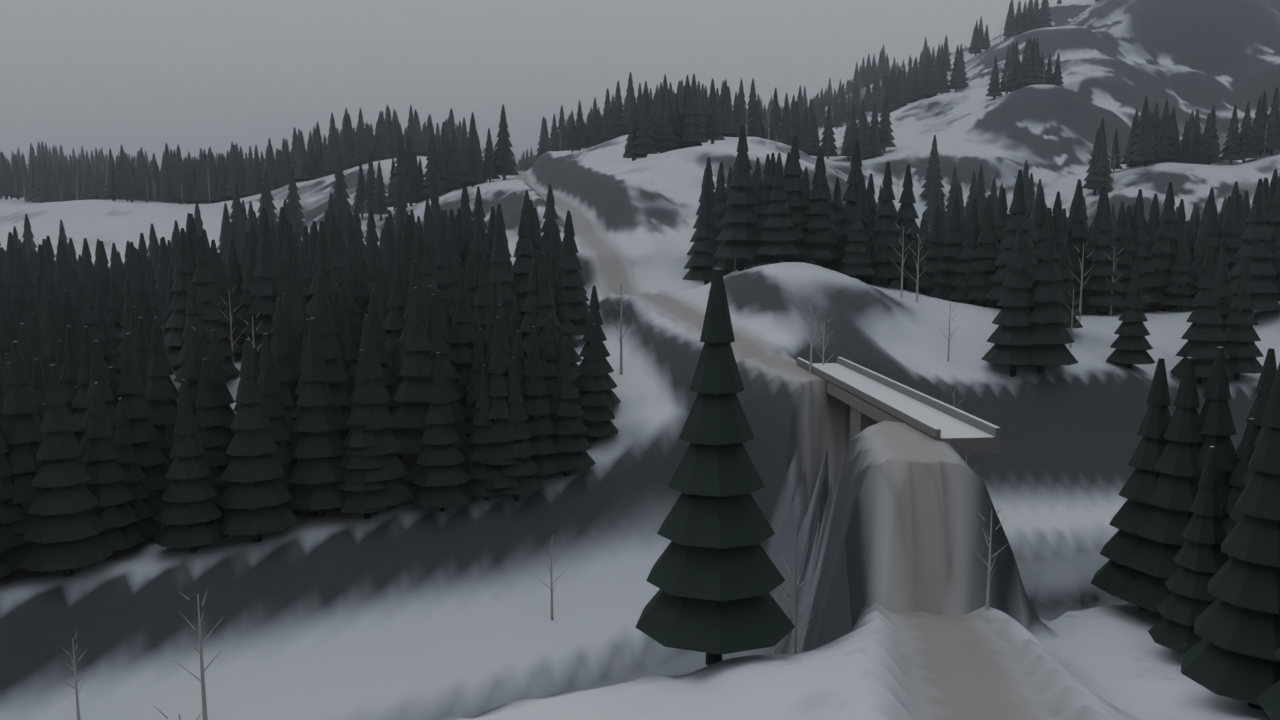
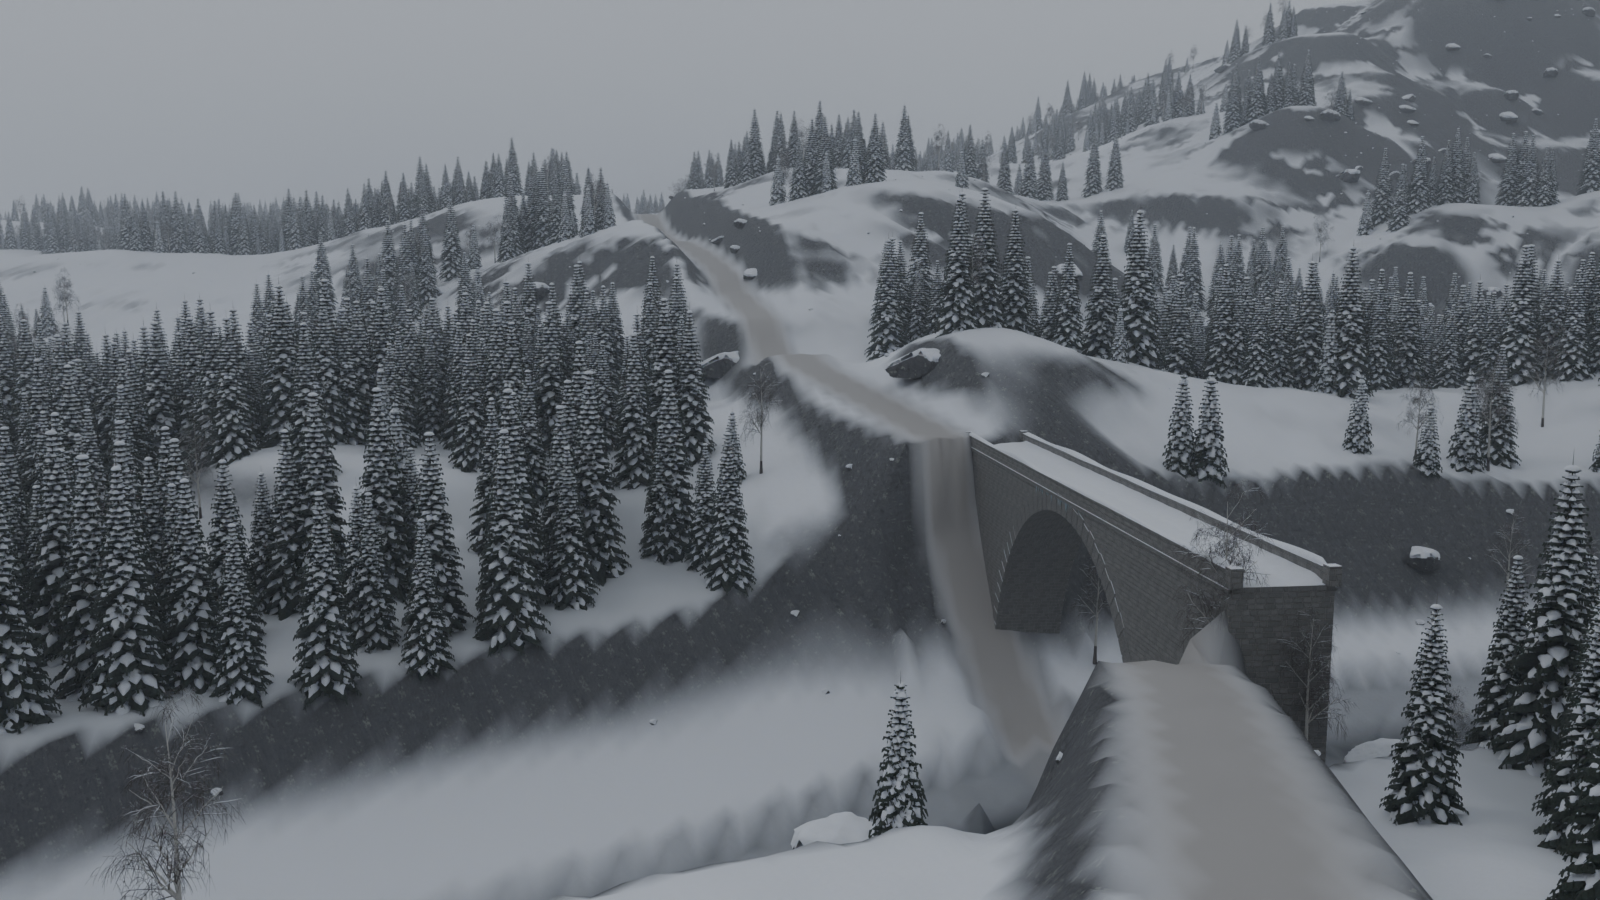
#390 TODO + first polish-v2 shots

diff --git a/handoffs/laptop-i5/TODO_adjustedfilm.md b/handoffs/laptop-i5/TODO_adjustedfilm.md
@@ -13,7 +13,7 @@ the real meshes, snow glints, rock texture, blizzard multiple scattering, 3 prop
 Next, in order: (1) fix from the Master's log `ue/wk390_log.txt` (meshes/props/dress steps are untested in UE);
 (2) BPC_SnowTrails (RT trail mask + packed layer + POM in M_WK_Landscape; RESEARCH.md section 4) - needs a T3D or a
 setup script, ask for no export (new BP); (3) snow Niagara from the #226 rain (request an export of the rain system
-first); (4) blizzard still needs a check in the new lookdev; (5) spruce snow cushions are a bit round, falls texture streaky.
+first); (4) blizzard still needs a check in the new lookdev; (5) spruce snow cushions are a bit round, falls texture streaky; (6) grey terrain wall at the WEST bridge end (road cut clip, see gate_overcast.png); (7) when the background renders finish, post gate lowsun/blizzard/night + bridge/farm/falls shots (lookdev/shots) and a before/after sheet (lookdev/make_sheet.py).
 
 ## Closed today (in the game, checked by the Master)
 
